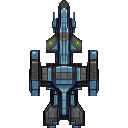
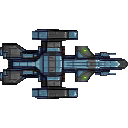
Fixed #1. Should smoothly rotate ship.

diff --git a/src/main.ts b/src/main.ts
@@ -49,37 +49,33 @@ class GameScene extends Phaser.Scene {
     let force = 0.05;
 
     if (ko.W.isDown) {
-      this.p.thrustLeft(force);
+      this.p.thrust(force);
     }
     if (ko.S.isDown) {
-      this.p.thrustRight(force);
-    }
-
-    /// Give the illusion of weight by slowing the rotation of the ship
-    /// when it gets close to 0 anglular velocity by using, auxThrusterPower
-    let auxThrusterPower = 0.05;
-    let targetAngularVelocity = 0;
-
-    let rotateSpeed = 0.1;
-
-    if (ko.D.isDown) {
-      targetAngularVelocity = rotateSpeed;
+      this.p.thrustBack(force);
     }
 
     if (ko.A.isDown) {
-      targetAngularVelocity = -rotateSpeed;
+      this.p.thrustLeft(force);
+    }
+    if (ko.D.isDown) {
+      this.p.thrustRight(force);
     }
 
-    // If we haven't been trying to rotate the ship, activate the
-    // "auxThruster" to stabilise the rotation enough to give the ship
-    // some weight behind it without it feeling sluggish
-    if (targetAngularVelocity != 0) {
-      this.p.setAngularVelocity(targetAngularVelocity);
-    } else {
-      this.p.setAngularVelocity(
-        this.p.getAngularVelocity() * (1 - auxThrusterPower),
-      );
-    }
+    let targetRotation = Phaser.Math.Angle.Between(
+      this.p.x,
+      this.p.y,
+      this.input.activePointer.x,
+      this.input.activePointer.y,
+    );
+
+    let rotateSpeed = 0.05;
+
+    this.p.rotation = Phaser.Math.Angle.RotateTo(
+      this.p.rotation,
+      targetRotation,
+      rotateSpeed,
+    );
   }
 }
 
